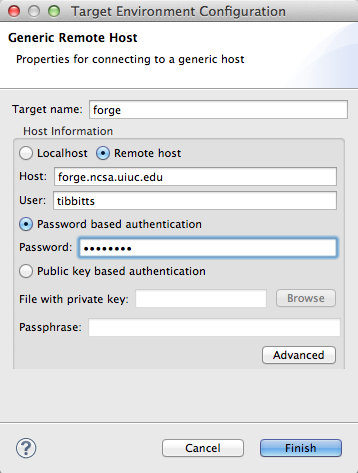
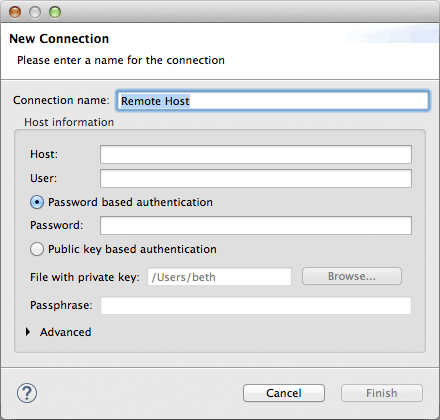
Bug 424176 Update PTP docs with new screenshots for connection creation, etc.

Changed region(s): [[0.0, 0.0, 1.0, 1.0], [0.0615, 0.7738, 0.2151, 0.8048], [0.4302, 0.9286, 0.4609, 0.9595]]

diff --git a/core/org.eclipse.ptp.doc.user/html/remoteTools.html b/core/org.eclipse.ptp.doc.user/html/remoteTools.html
@@ -38,13 +38,17 @@ projects.
 <h2 id="create">Creating Remote Connections</h2>
 <p>New connections are typically created when a need for them arises, such as creating a remote or synchronized
 project, or a run configuration on a remote target machine. 
+<ul>
+<li>You can also create a new connection independently via the <b>Preferences</b> page.  See 
+<a href="#edit">Edit</a> below and use the <b>Add </b> button on the <b>Preferences</b> page.
+</ul>
 To create a new connection to a remote machine, e.g. when creating a <a href="sync.html">synchronized project</a>, 
 the new connection information is specified as part of the <b>New Synchronized Project</b> dialog.
 <p>
 <img src="images/rt_newConnect.png">
 <p>
-Select <b>New...</b> and on the <b>Target Environment Configuration</b> dialog, specify a target name
-of your choice. Select <b>Remote Host</b> and fill in user name and password. Select
+Select <b>New...</b> and on the <b>New Connection</b> dialog, specify a Connection name
+of your choice. Fill in user name and password. Select
 <b>Finish</b> to create the connection.
 <p><img src="images/rt_connection_new.png">
 <p>
@@ -57,7 +61,7 @@ For example, pick an unused port > 1024 such as 7373 in this example:
 ssh -L 7373:&lt;target-host&gt;:22 &lt;intermediate-userid&gt;@&lt;intermediate-host&gt;
 </pre>
 
-<p>Then in the connection dialog, Select <b>Advanced...</b> and use the same port number that you specified
+<p>Then in the connection dialog, expand the <b>Advanced </b> section and use the same port number that you specified
 from the command line ssh command.
 <p>
 <img src="images/rt_tunnel.png">

diff --git a/core/org.eclipse.ptp.doc.user/html/03pRunConfig.html b/core/org.eclipse.ptp.doc.user/html/03pRunConfig.html
@@ -102,7 +102,7 @@ Note that the associated runtime or job scheduler needs to be available on the t
    </tr>
    <tr id="gridengine">
     <td><a href="rms/gridengine.html">Grid Engine-Generic-Batch</a></td>
-    <td>Batch exectuion using Grid Engine</td>
+    <td>Batch execution using Grid Engine</td>
   </tr>
   <tr id="ibm-ll">
     <td><a href="rms/ibm-ll.html">IBM LoadLeveler</a></td>
